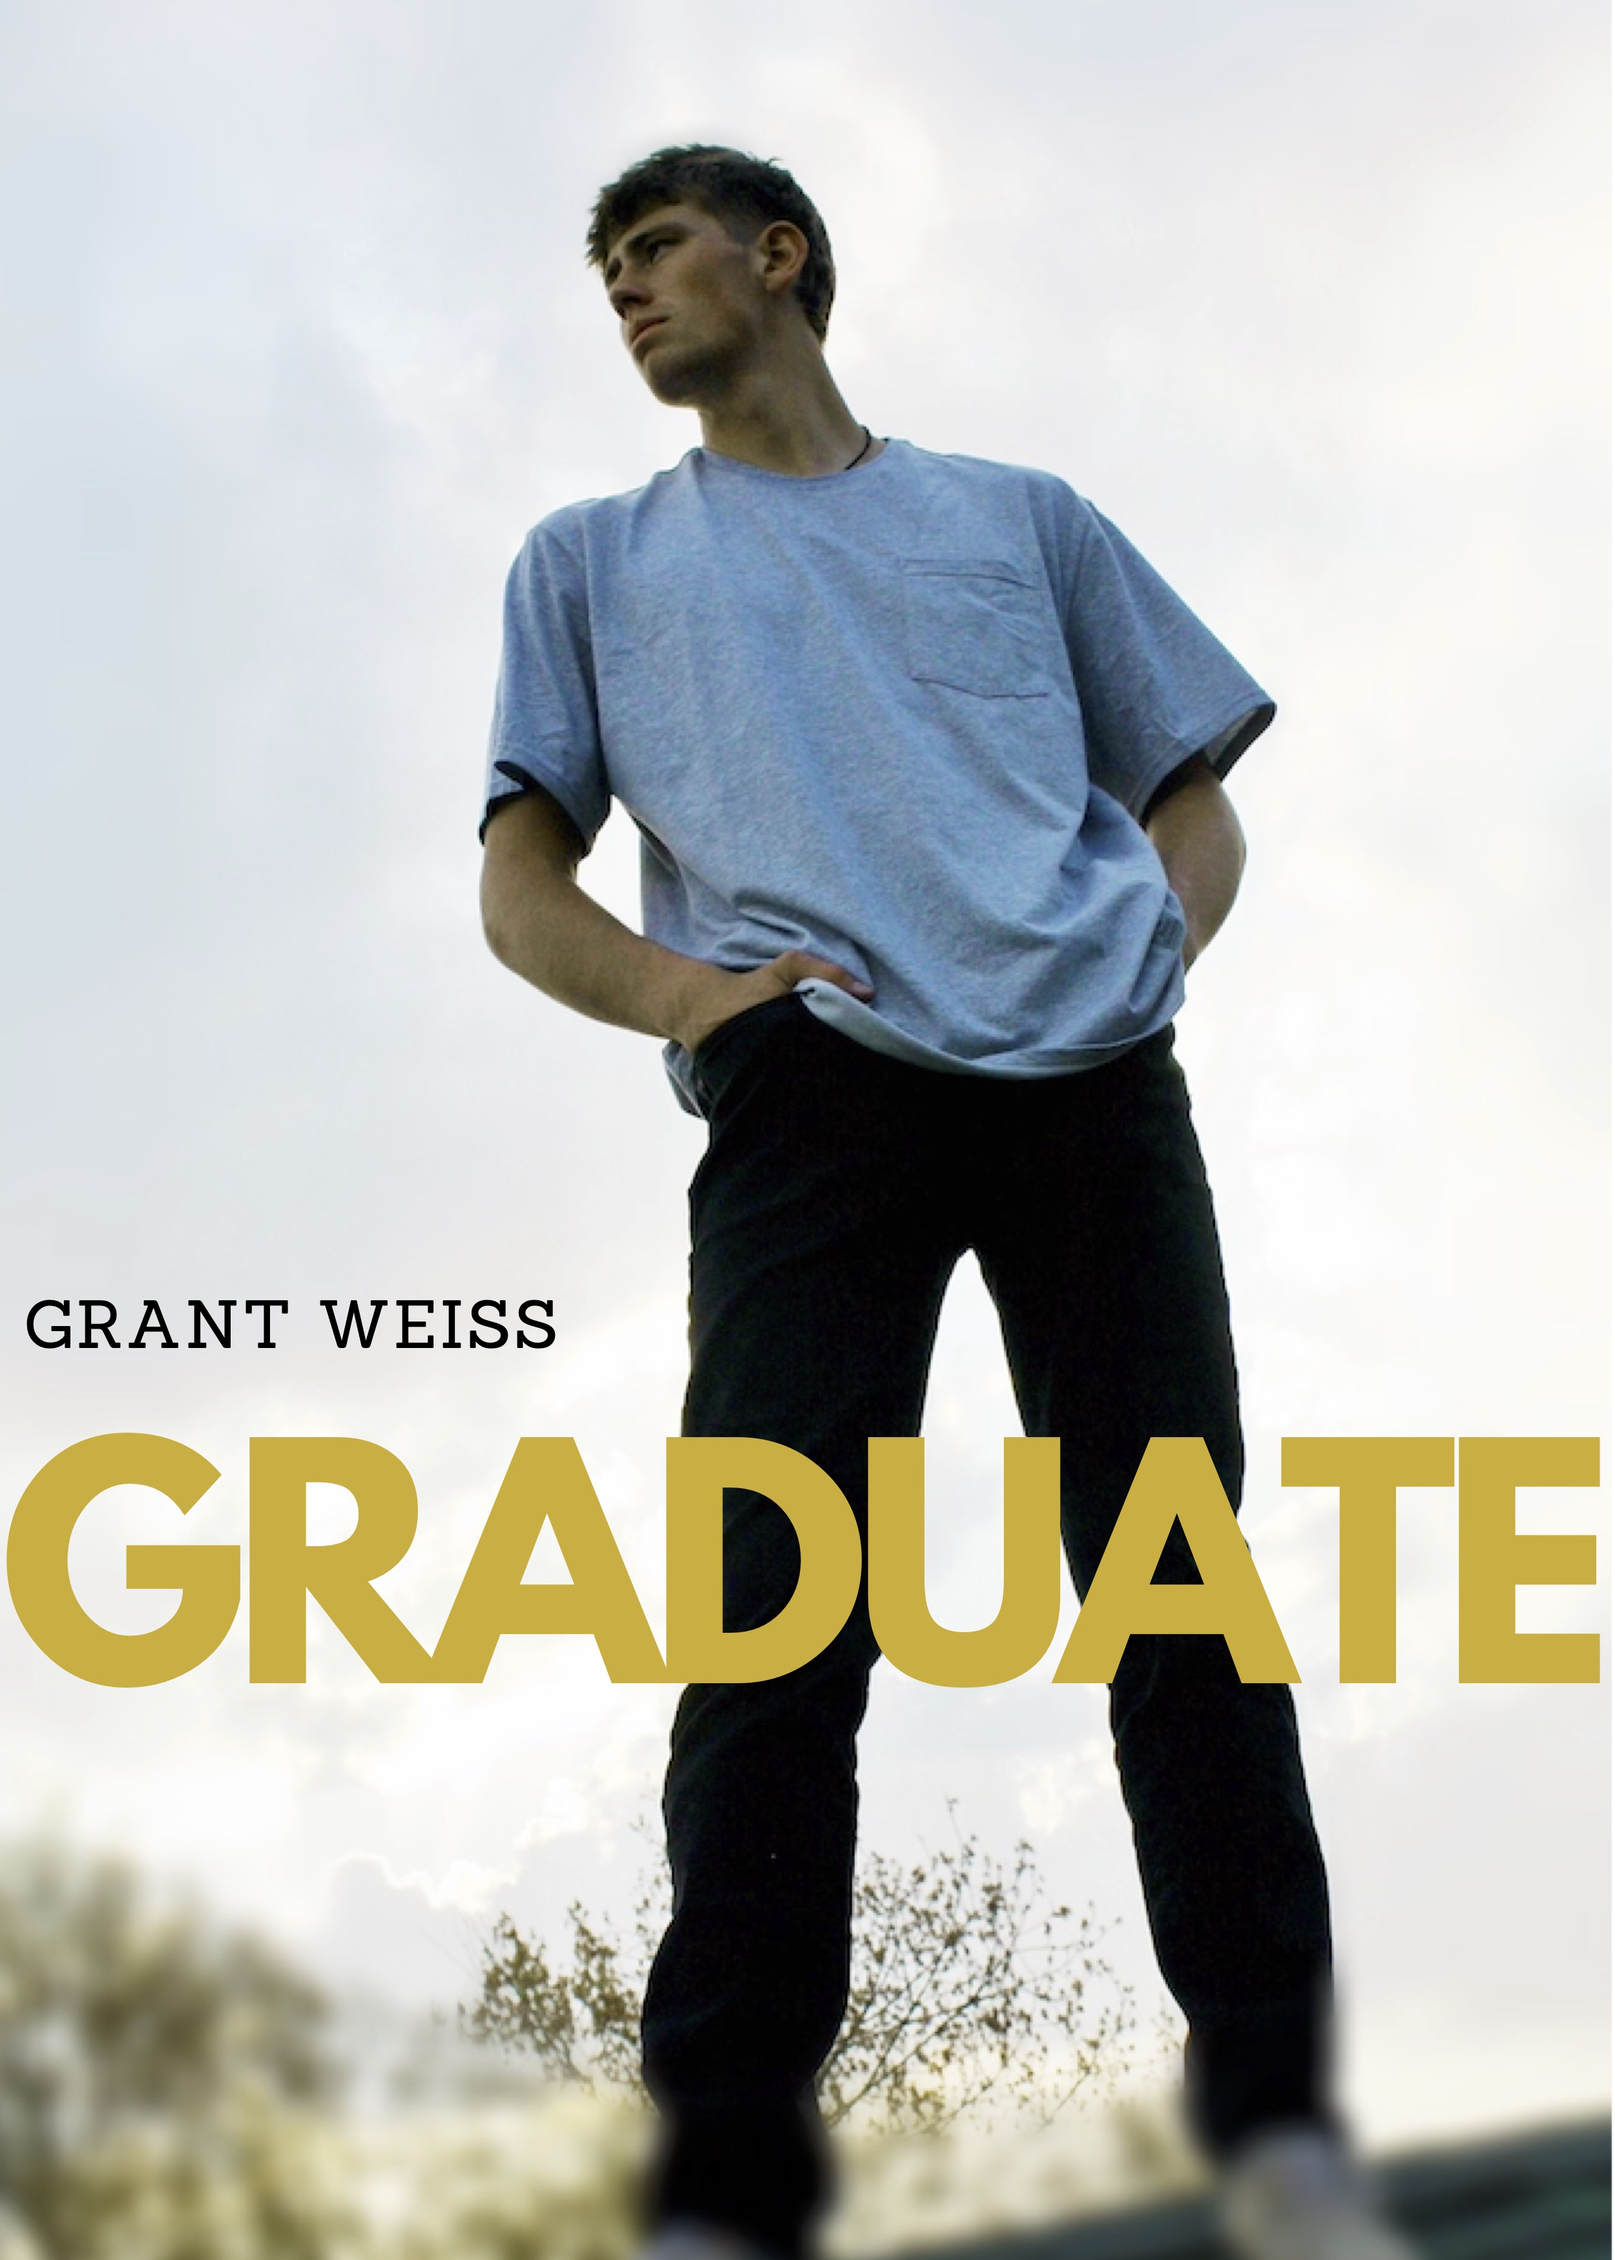
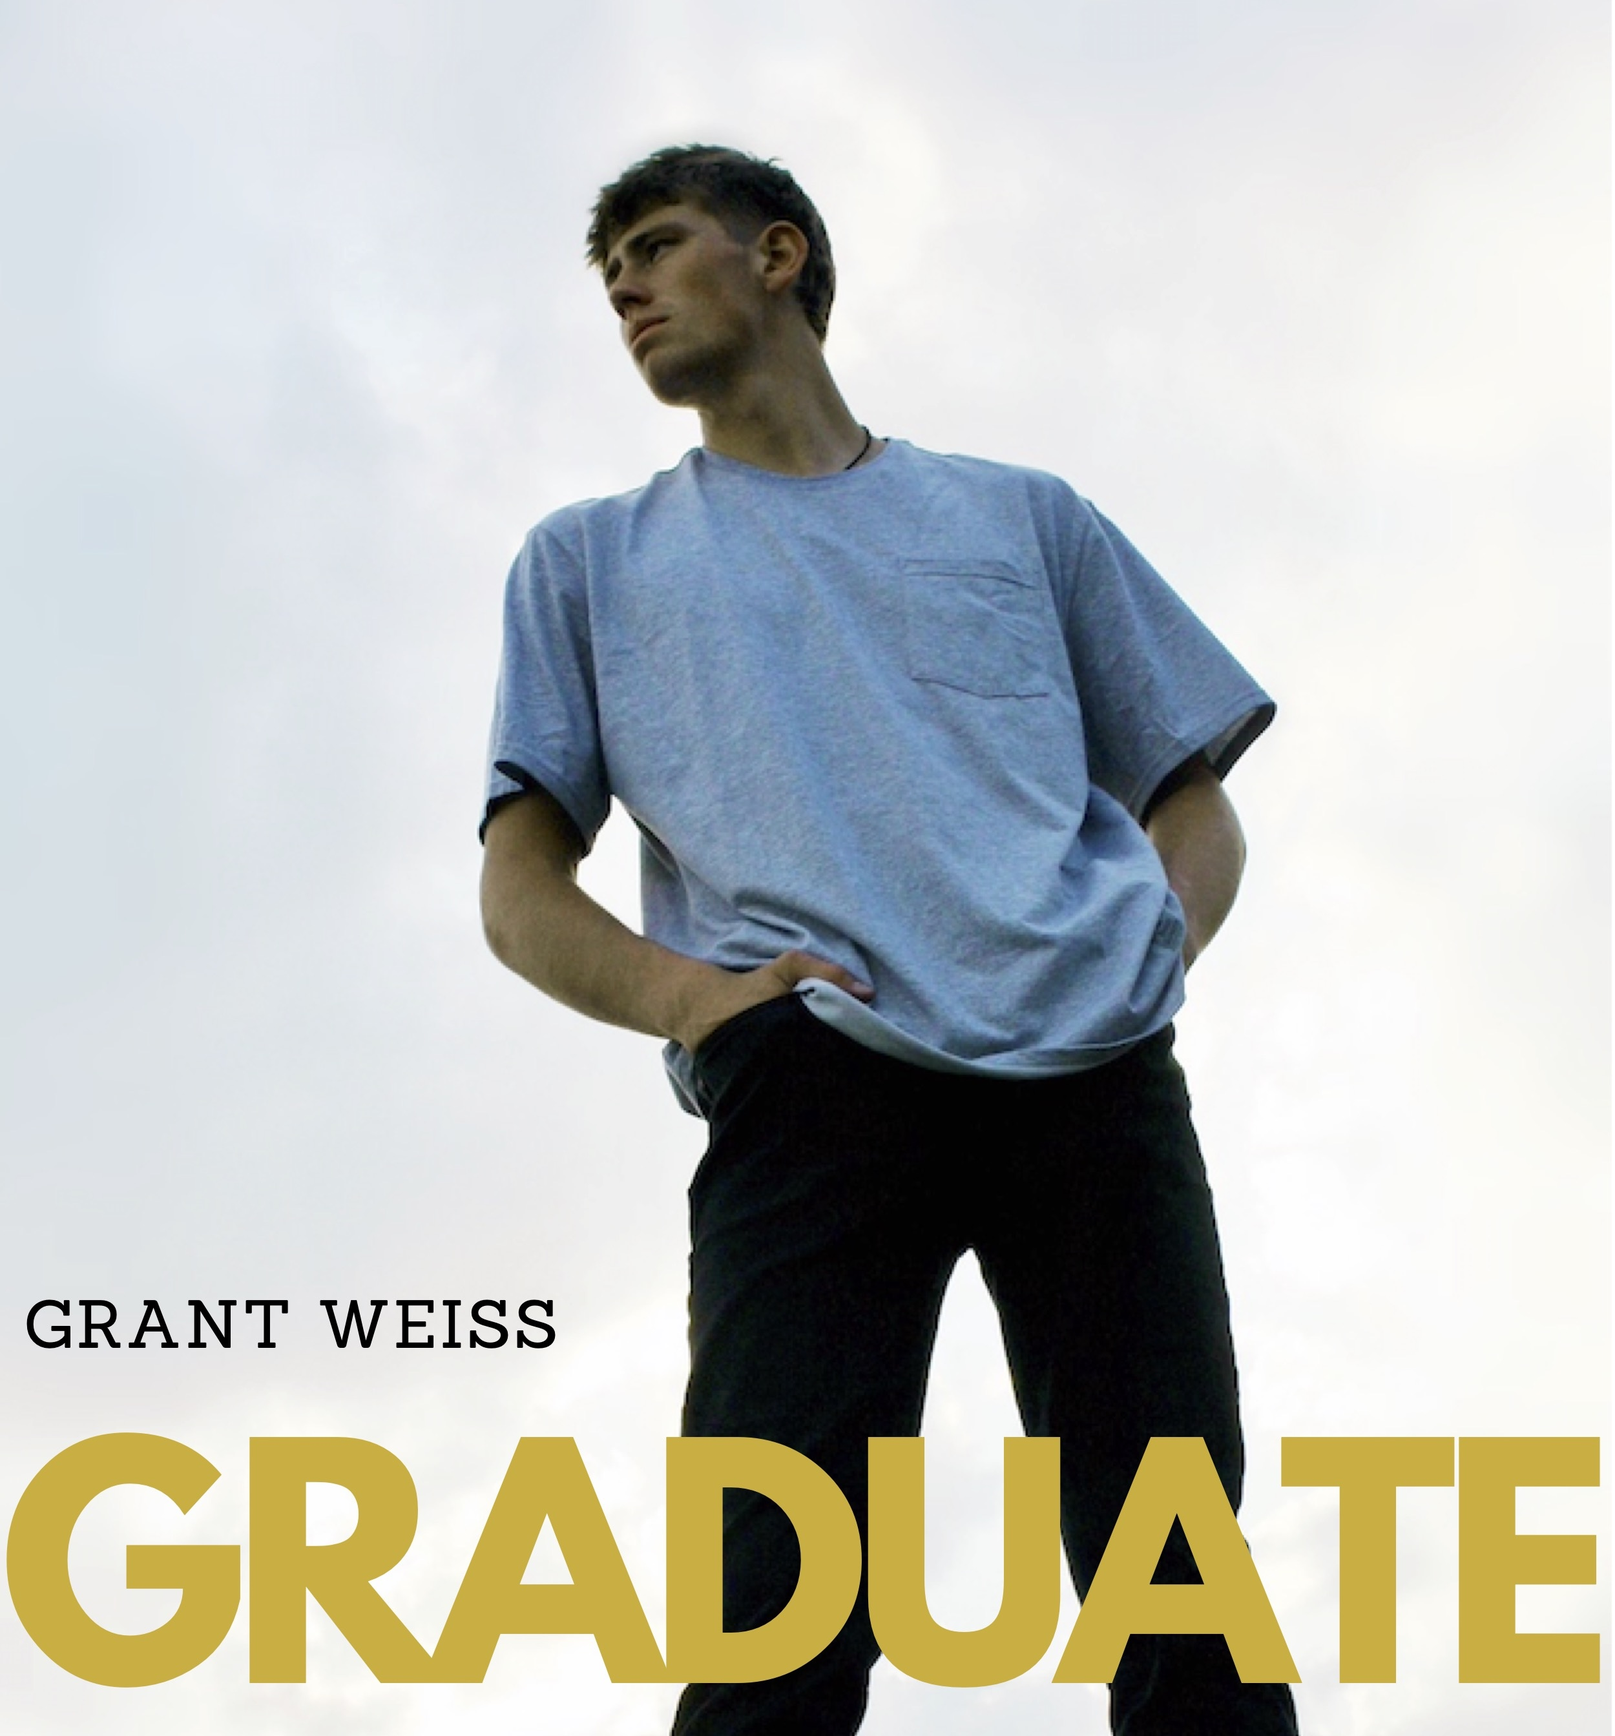
updated photo, updated text

diff --git a/src/content/work/graduation.md b/src/content/work/graduation.md
@@ -1,5 +1,5 @@
 ---
-title: Graduation
+title: Graduation Poster
 publishDate: 2020-03-02 00:00:00
 img: /assets/grant-graduation.jpg
 img_alt: Image of Grant's Graduation
